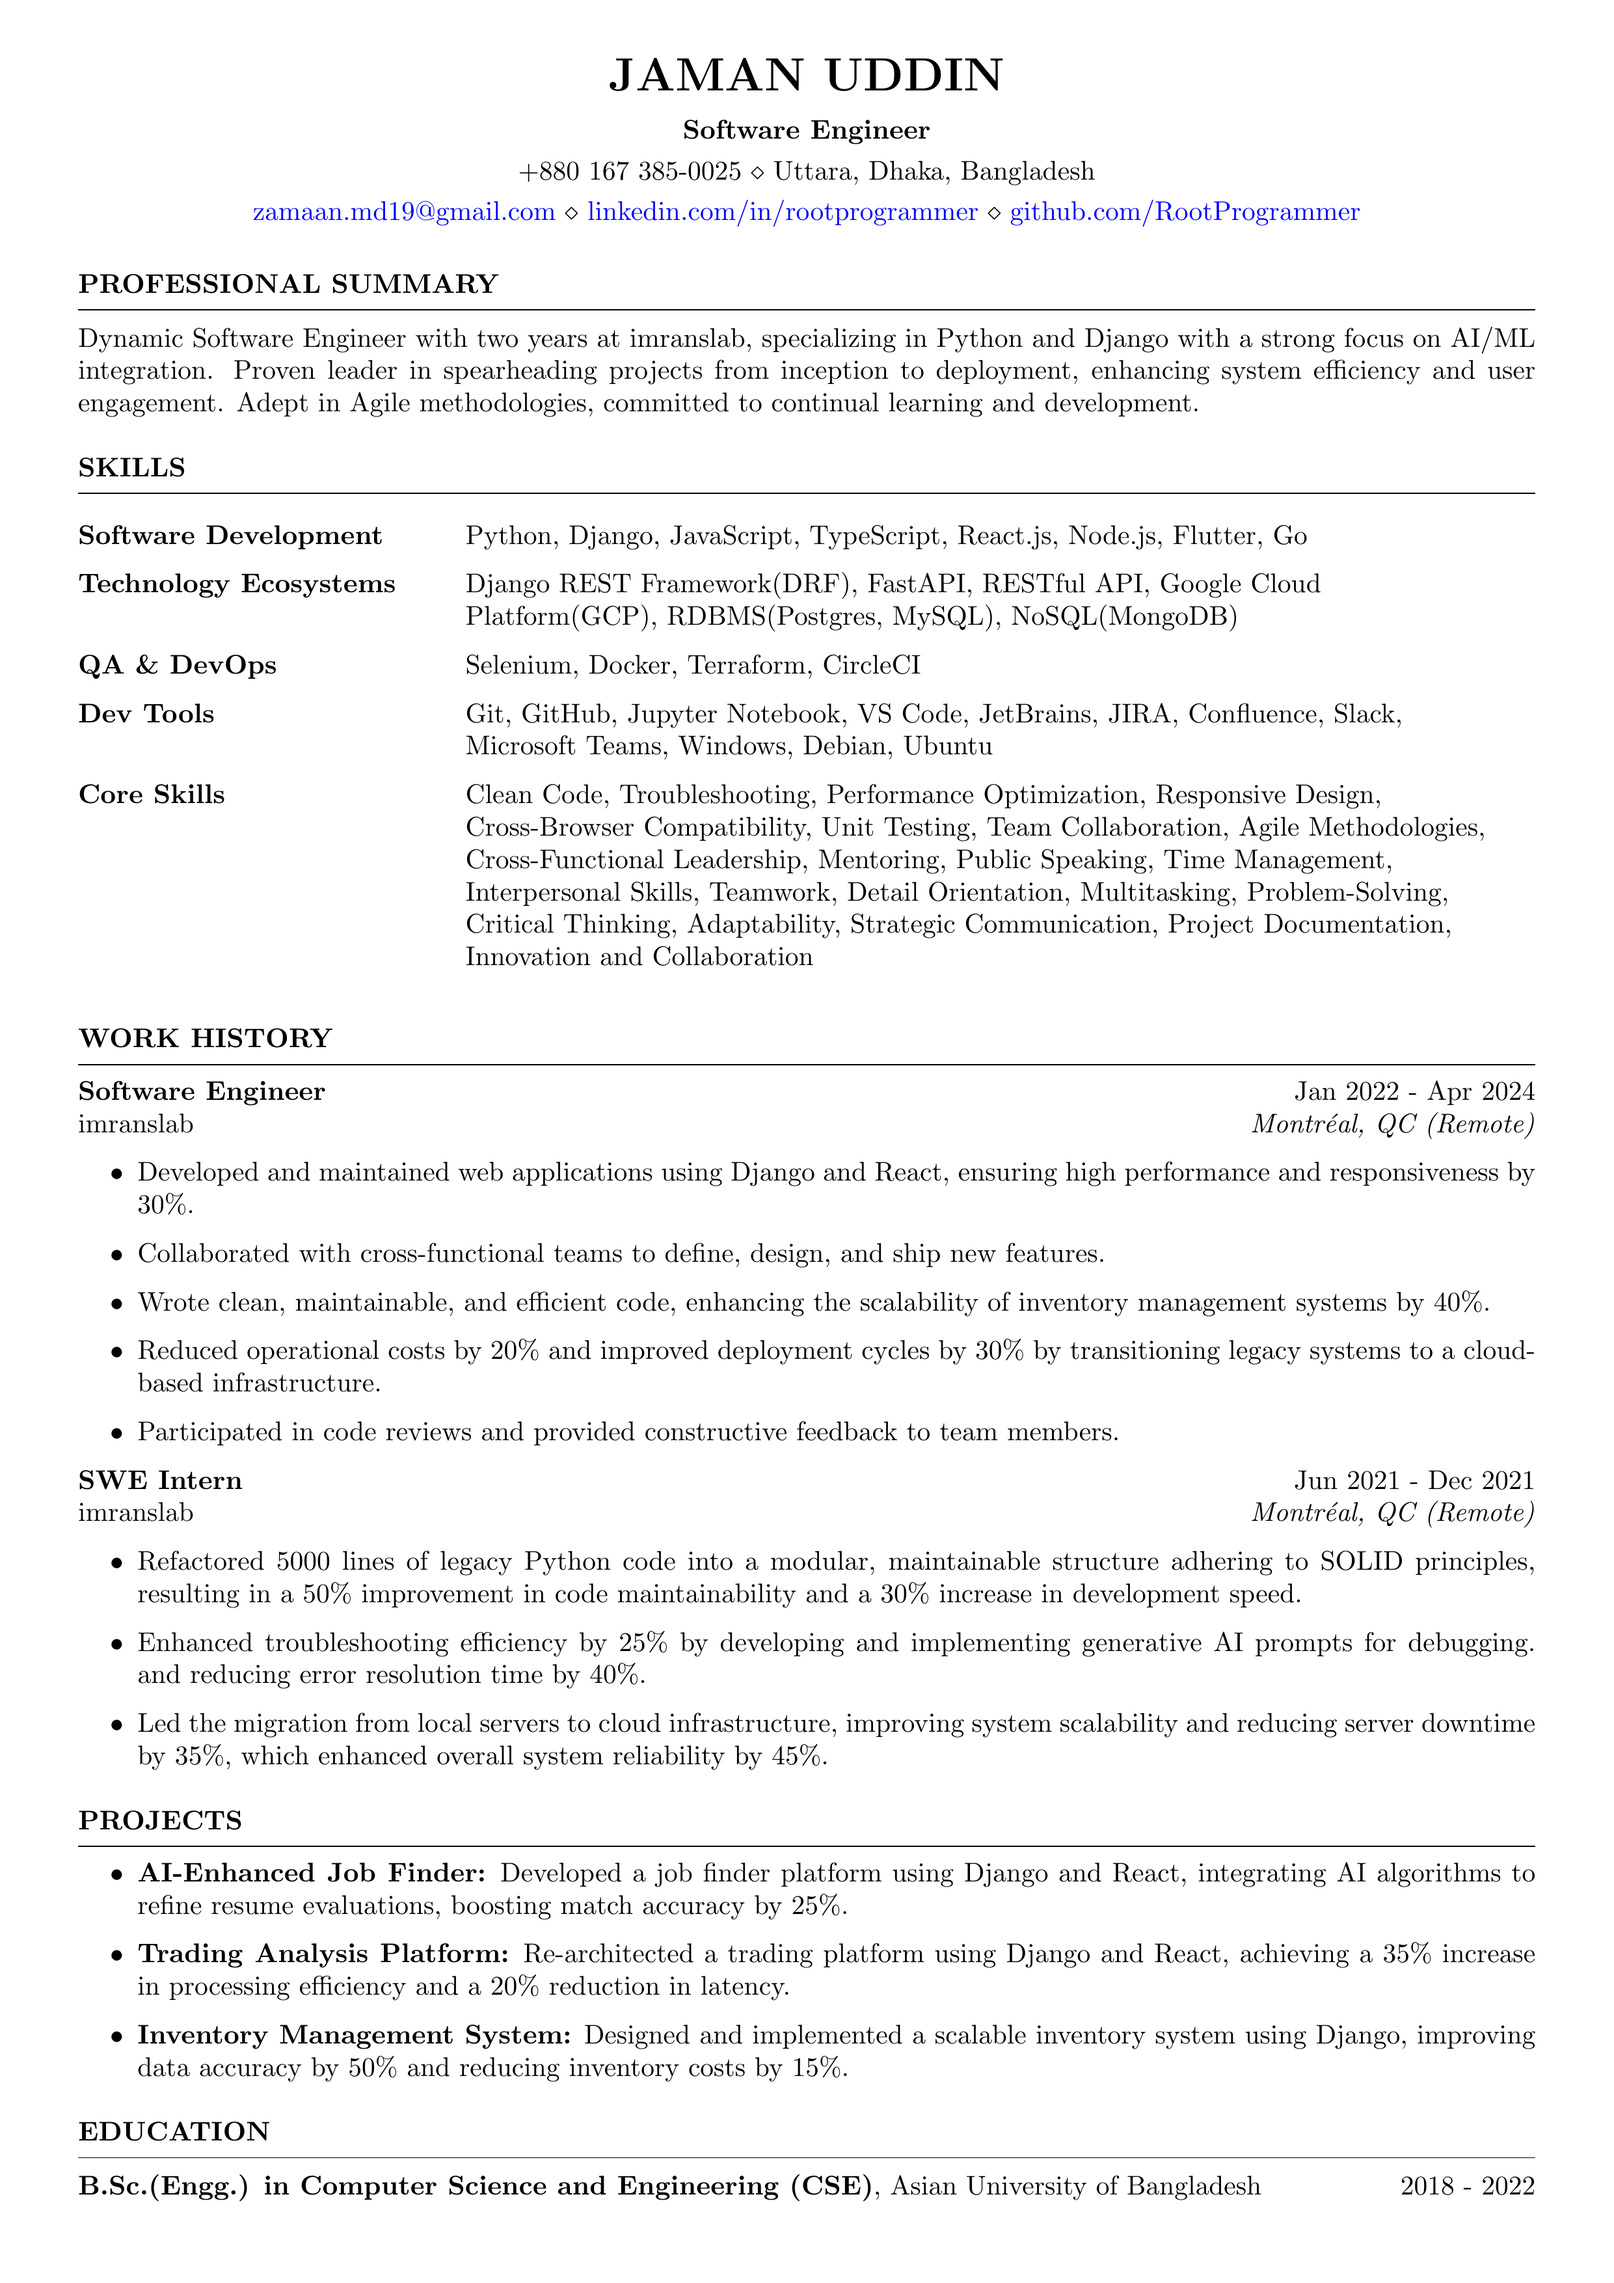
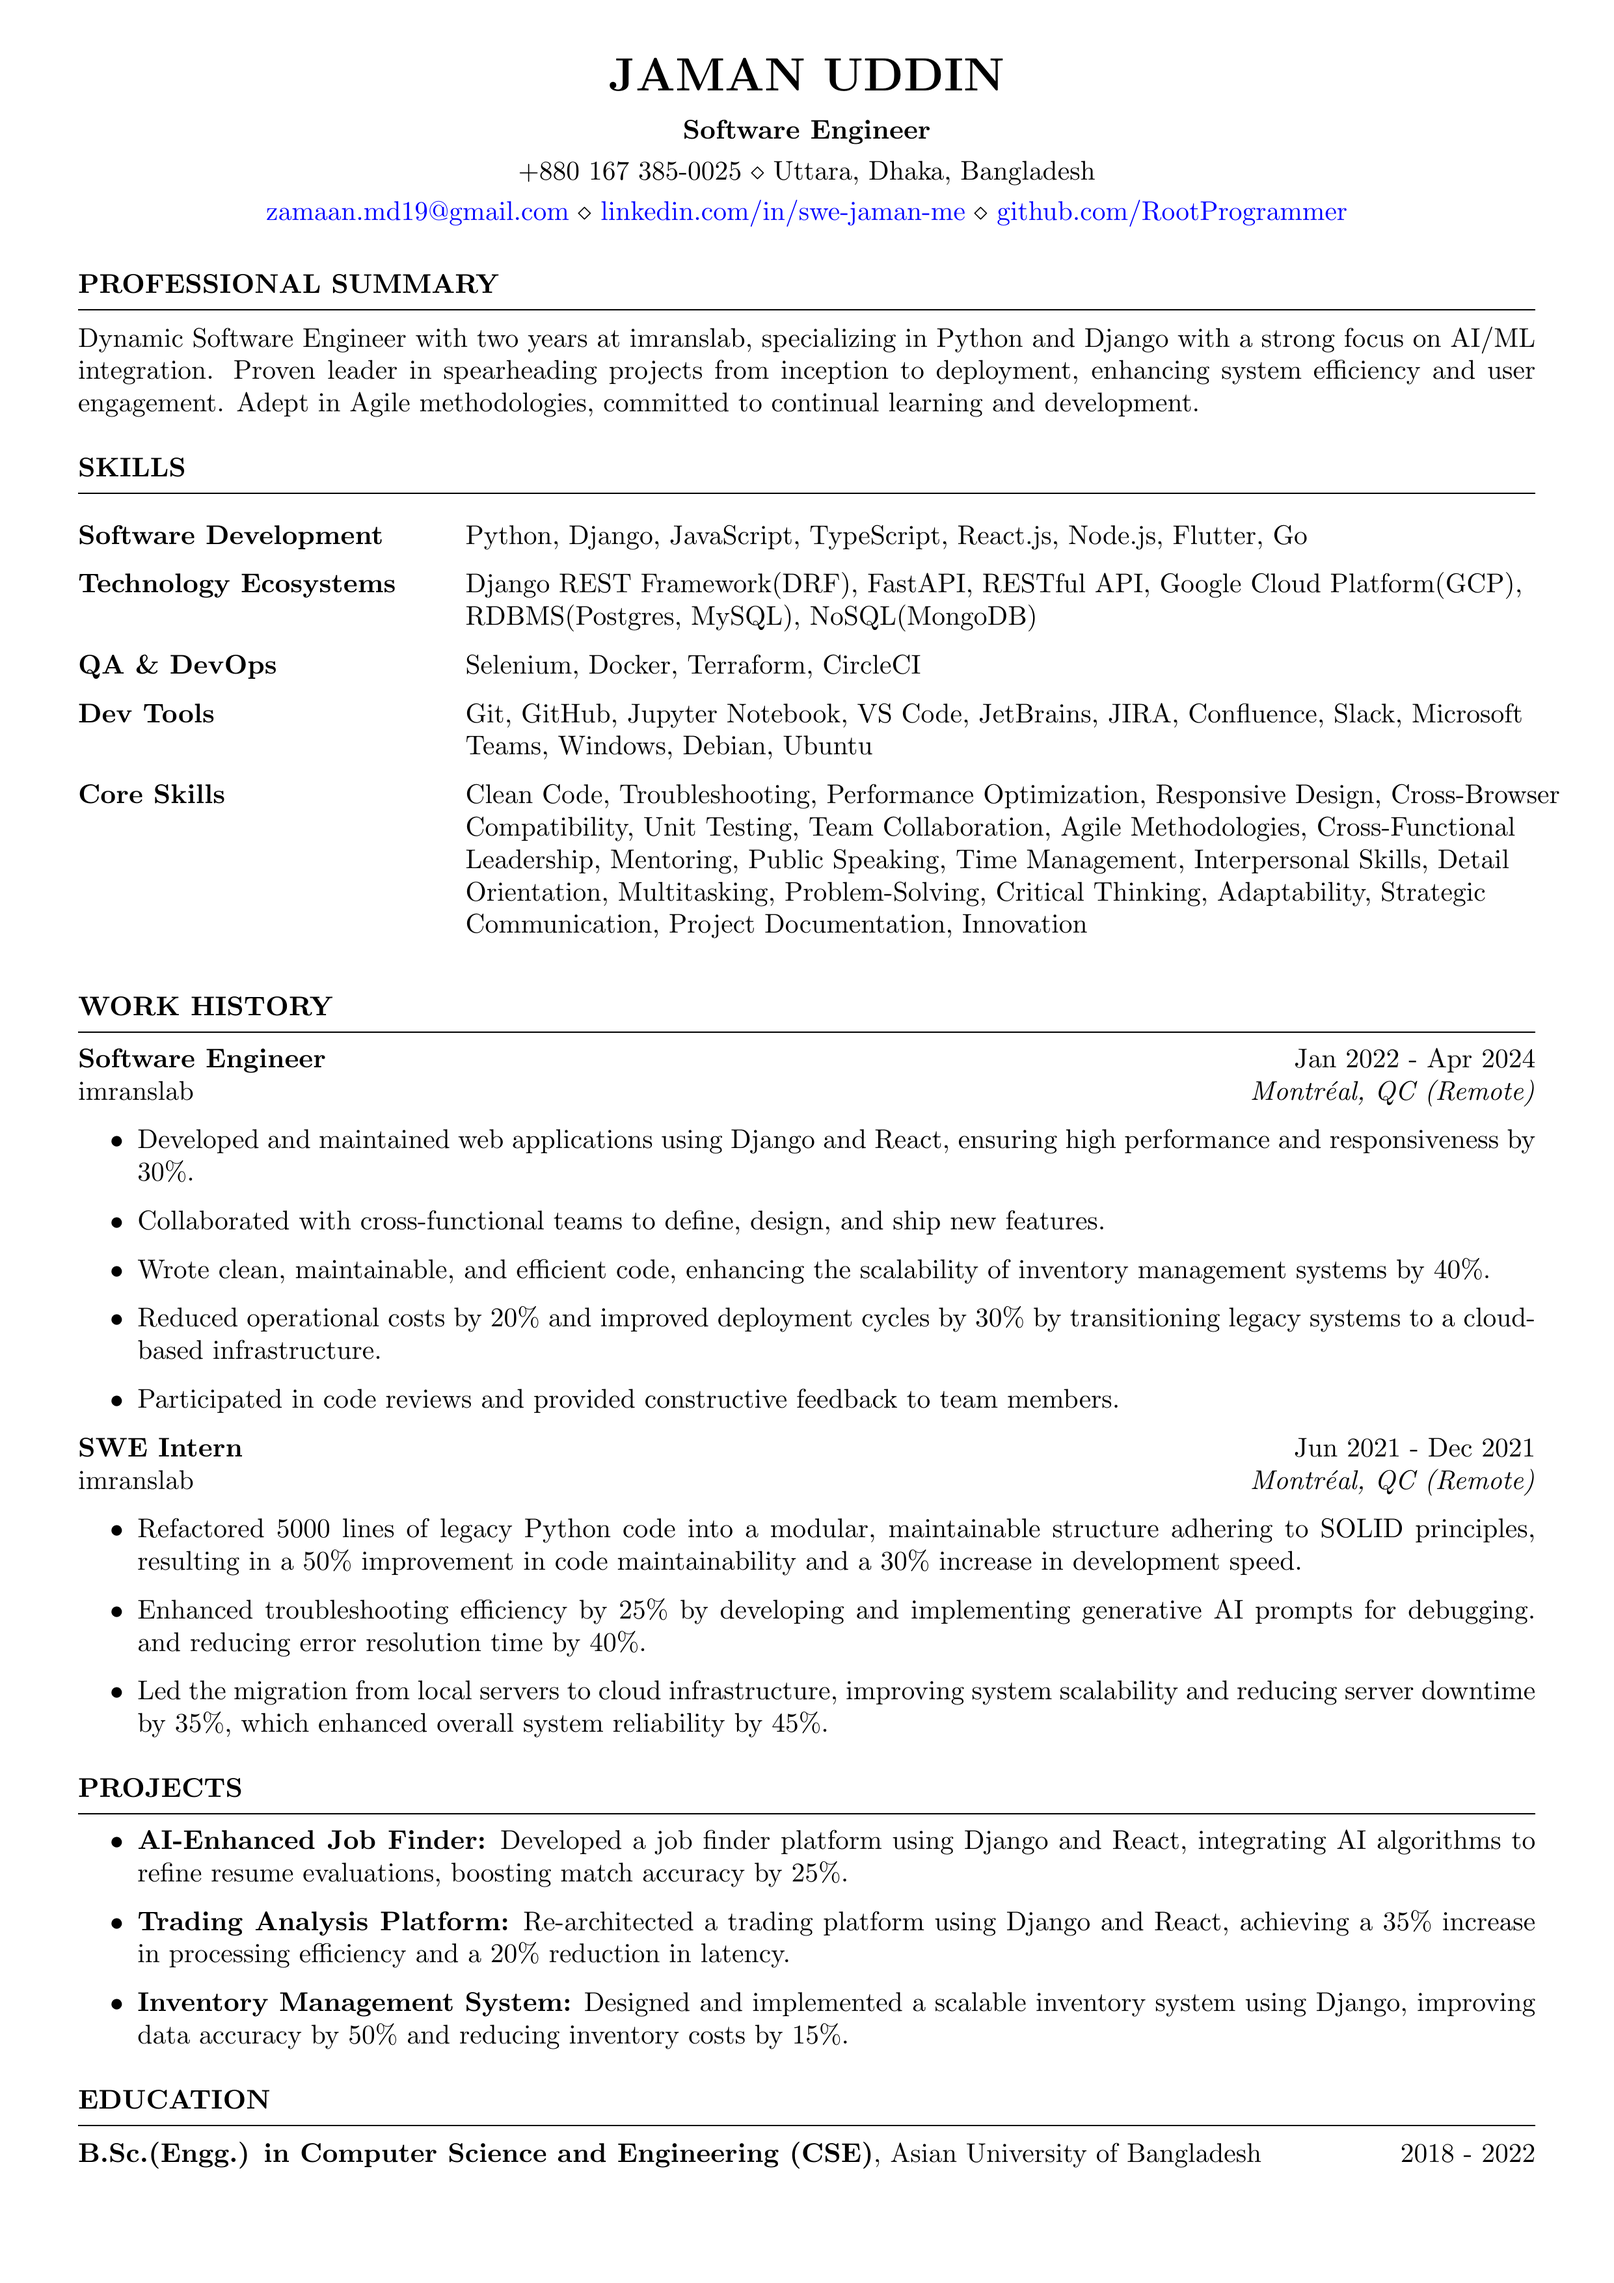
Update: July 13, 2024

diff --git a/resume/job-oriented-resume/full-stack-developer-django-and-react/jaman-uddin.tex b/resume/job-oriented-resume/full-stack-developer-django-and-react/jaman-uddin.tex
@@ -5,7 +5,7 @@
 \name{Jaman Uddin} % Your name
 \address{\textbf{Full Stack Developer}}    % Role you are applying for
 \address{+880 167 385-0025 \\ Uttara, Dhaka, Bangladesh}
-\address{\href{mailto:zamaan.md19@gmail.com}{zamaan.md19@gmail.com} \\ \href{https://www.linkedin.com/in/rootprogrammer/}{linkedin.com/in/rootprogrammer} \\ \href{https://github.com/RootProgrammer}{github.com/RootProgrammer}}
+\address{\href{mailto:zamaan.md19@gmail.com}{zamaan.md19@gmail.com} \\ \href{https://www.linkedin.com/in/swe-jaman-me/}{linkedin.com/in/swe-jaman-me} \\ \href{https://github.com/RootProgrammer}{github.com/RootProgrammer}}
 
 \begin{document}
 

diff --git a/resume/jaman-uddin.tex b/resume/jaman-uddin.tex
@@ -5,7 +5,7 @@
 \name{Jaman Uddin} % Your name
 \address{\textbf{Software Engineer}}    % Role you are applying for
 \address{+880 167 385-0025 \\ Uttara, Dhaka, Bangladesh}
-\address{\href{mailto:zamaan.md19@gmail.com}{zamaan.md19@gmail.com} \\ \href{https://www.linkedin.com/in/rootprogrammer/}{linkedin.com/in/rootprogrammer} \\ \href{https://github.com/RootProgrammer}{github.com/RootProgrammer}}
+\address{\href{mailto:zamaan.md19@gmail.com}{zamaan.md19@gmail.com} \\ \href{https://www.linkedin.com/in/swe-jaman-me/}{linkedin.com/in/swe-jaman-me} \\ \href{https://github.com/RootProgrammer}{github.com/RootProgrammer}}
 
 \begin{document}
 
